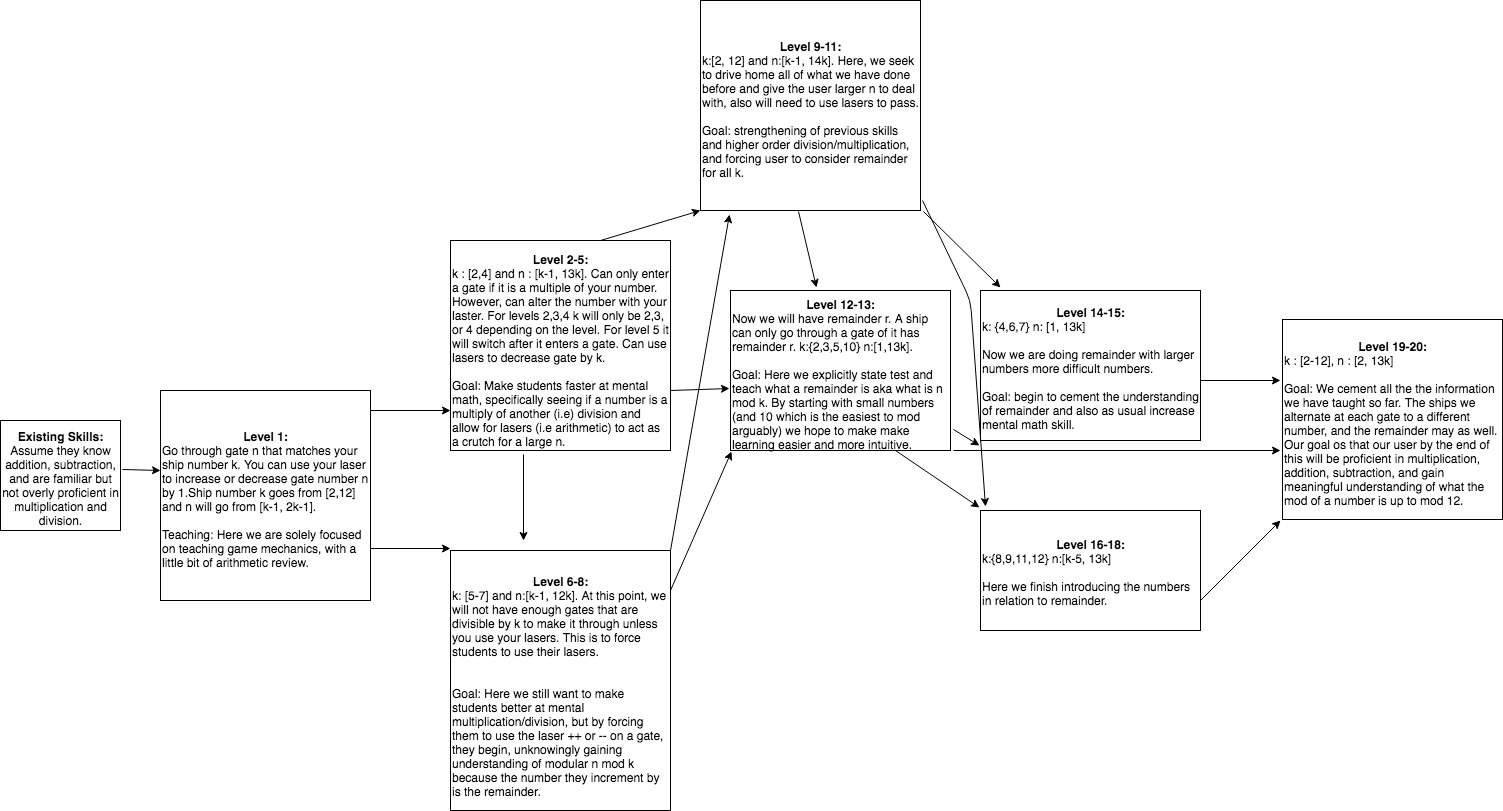
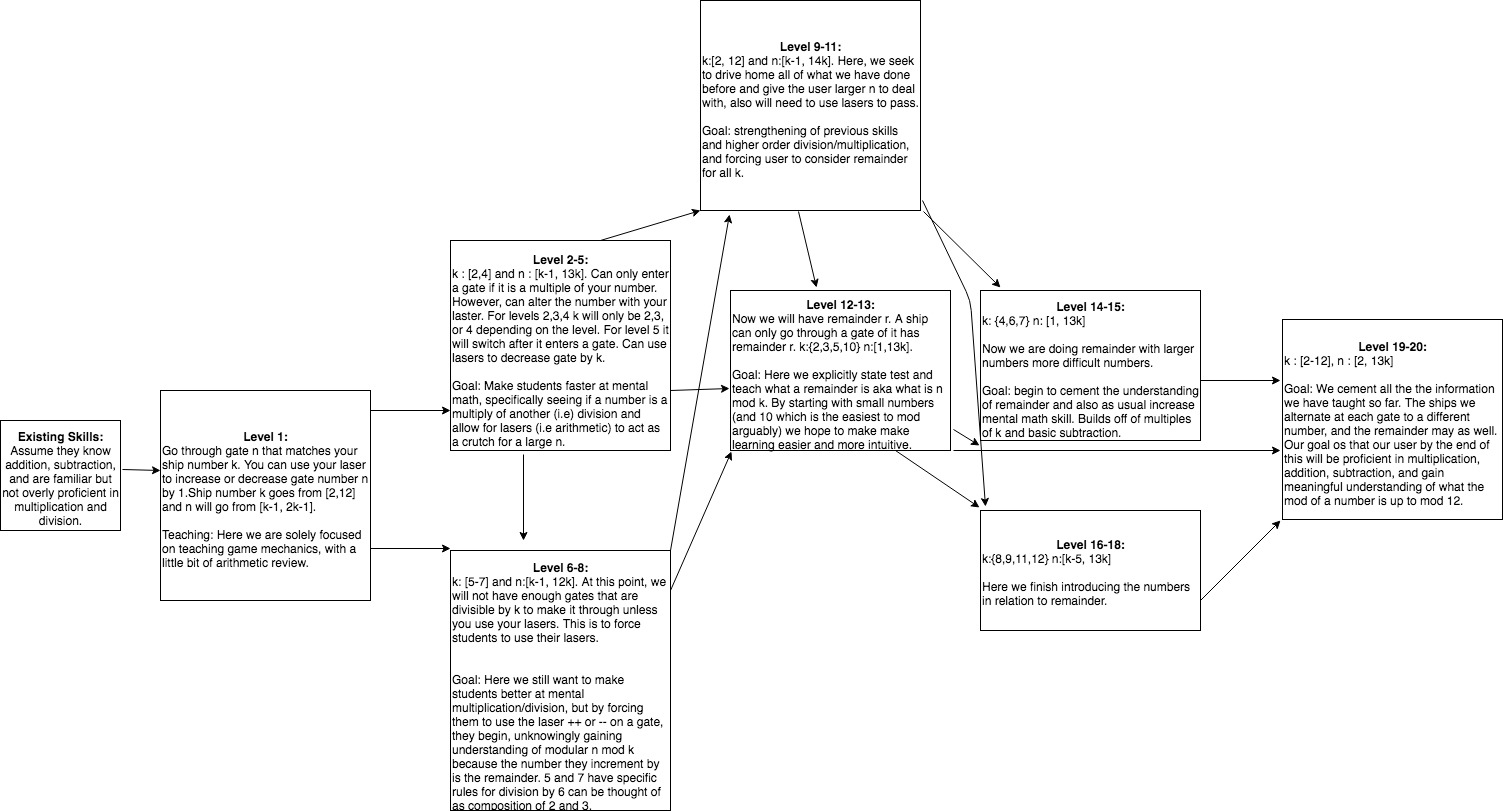
new pics

Changed region(s): [[0.3061, 0.6782, 0.4591, 1.0], [0.6427, 0.3699, 0.7957, 0.5549]]

diff --git a/project/LT/Learning Content.html b/project/LT/Learning Content.html
@@ -1,7 +1,7 @@
 
 <!-- saved from url=(0069)file:///Users/jasonmichaelvallee/Year4/learnin/Learning%20Content.htm -->
 <html><head><meta http-equiv="Content-Type" content="text/html; charset=windows-1252"><title> Learning Content </title>
-</head><body><h3>jvallee nhirsc Learning Content </h3>
+</head><body><h3>jvallee nashirsch Learning Content </h3>
 
 <br><br>
 <!--The purpose of this exercise is to define the learning content in your game.
@@ -11,7 +11,7 @@ specific aspects of that subject you are going to tackle. You need to show that
 you understand the educational aspects of this course, especially learning 
 trajectories and the gradual, stairstep nature of teaching / learning a 
 subject.-->
-We will begin assuming the child playing this game at at a third grade level in mathematics. So, the target user will have familiarity with addition, subtraction, and basic multiplication. The end goal is that they will strengthen these skills, become profient at mental multiplicatoin of two numbers up to 12 and understand the concept of remainder or the mod of a number. We will start very basic introducing the game mechanics, basic arithmetic, and the idea of a number being a multiple of another. With each level increase we marginally increase teh difficulty be either making the numbers we deal with larger, or adding a new concept. Whenever we add a new concept, we go back to using small numbers and ten build back up.   
+We will begin assuming the child playing this game at a third grade level in mathematics. So, the target user will have familiarity with addition, subtraction, and basic multiplication. The end goal is that they will strengthen these skills, become proficient at mental multiplication of two numbers up to 12 and understand the concept of remainder or the mod of a number. We will start very basic introducing the game mechanics, basic arithmetic, and the idea of a number being a multiple of another. With each level increase we marginally increase the difficulty be either making the numbers we deal with larger, or adding a new concept. Whenever we add a new concept, we go back to using small numbers and ten build back up.      
 
 
 <br><br>
@@ -20,18 +20,9 @@ to be expected to implement. For your design, imaging that you have a full
 design and implementation team, so implementation time is not a constraint. 
 You will later carve out a subset of this design to complete for this course.-->
 
-The game is called space racer and the player is in control of a spaceship called mod k (where k is an interger). The student must traverse a map, which is pretty linear, but the conflict is their spaceship will runout of energy unless they go through certain charging gates. Each charging gate is of type n. Depending on the level, the student must go through a gate that is a multiple of k, or gives you some remainder r when divided by k (depending on the level). Also, the student can change the number of the gate by firing and hitting the gate with their laser. 
-<br><br>
-Keep in all the html. Place in your design directory of your repository. 
-You and your partner fill in your CNETIDs - you only need to submit to one of your
-svn repositories.
-<br><br>
-Summarize your content area in 1-2 paragraphs.
-<br><br>
-Describe the age of your user and the skills that you assume the user already has 
-(that is relevant to your content). Your user must be in at least 3rd grade.
-<br><br>
-Describe what skills you are going to teach your user.
+The game is called space racer and the player is in control of a spaceship called mod k (where k is an integer). The student must traverse a map, which is pretty linear, but the conflict is their spaceship will run out of energy unless they go through certain charging gates. Each charging gate is of type n. Depending on the level, the student must go through a gate that is a multiple of k, or gives you some remainder r when divided by k (depending on the level). Also, the student can change the number of the gate by firing and hitting the gate with their laser. 
+
+
 <br><br>
 <!--Diagram a learning trajectory for this subject that starts with existing relevant
 skills on the left-most side and progresses through knowledge they would learn
@@ -44,7 +35,7 @@ in a game like yours (your game won't need to cover all of this).-->
 cannot be just made up yourself - you need to draw upon existing examples or 
 justify the reasons why you have created it in that way.-->
 
-As stated above, we advanced the difficulty slowly, each way building upon something previosly known, in order to achieve new skills. We took a lot of inspiration from "K-8 Learning Trajectories Derived from Research Literature: Sequence, Repetition, Conditionals" in designing our trajectory, specifically spiral curricula. Each level relates and uses skills on some previous level besides or known knowledge. And 
+As stated above, we advanced the difficulty slowly, each way building upon something previously known, in order to achieve new skills. Multiplication of larger composite numbers can be thought of as multiplying their factors. For instance, 4*7 = 2*(2*7). We derived the idea for our ordering from common core, having the building blocks of multiplication be introduced first and then relying on said skills later on with larger numbers. We also took a lot of inspiration from "K-8 Learning Trajectories Derived from Research Literature: Sequence, Repetition, Conditionals" in designing our trajectory, specifically the idea of a spiral curricula. Each level relates and uses skills on some previous level besides or known knowledge. We start by introducing and having the student see modulo in a very basic setting and our end result is the student will understand and be able to see what n mod k of a number is. 
 <br><br>
 
 
